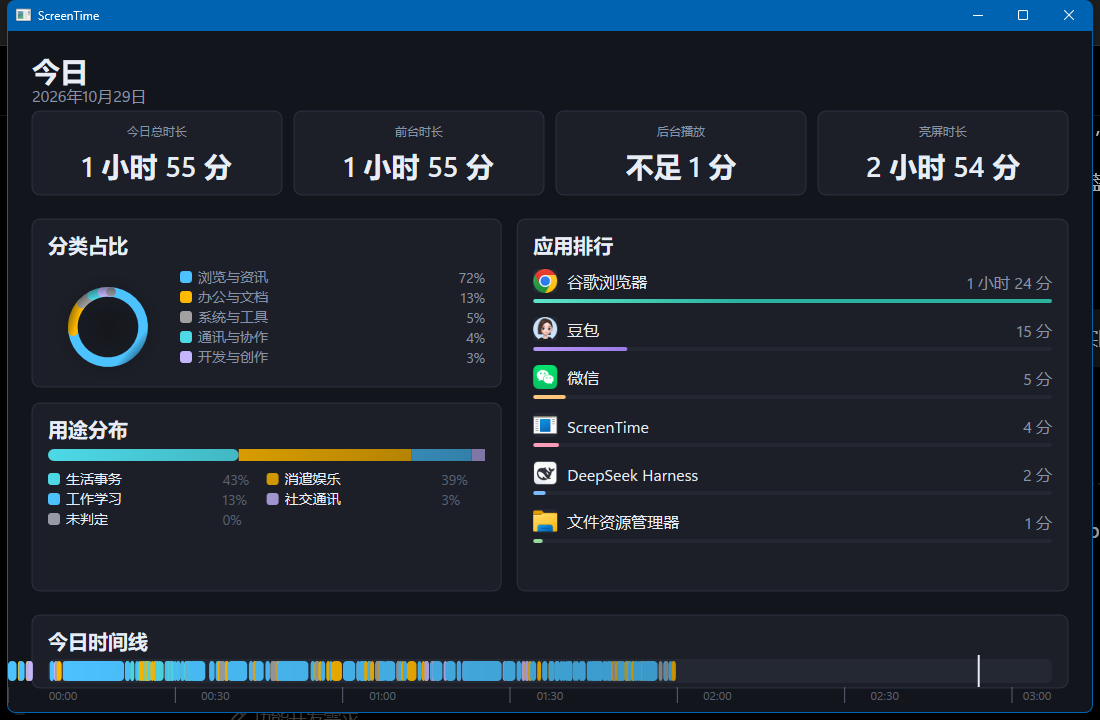
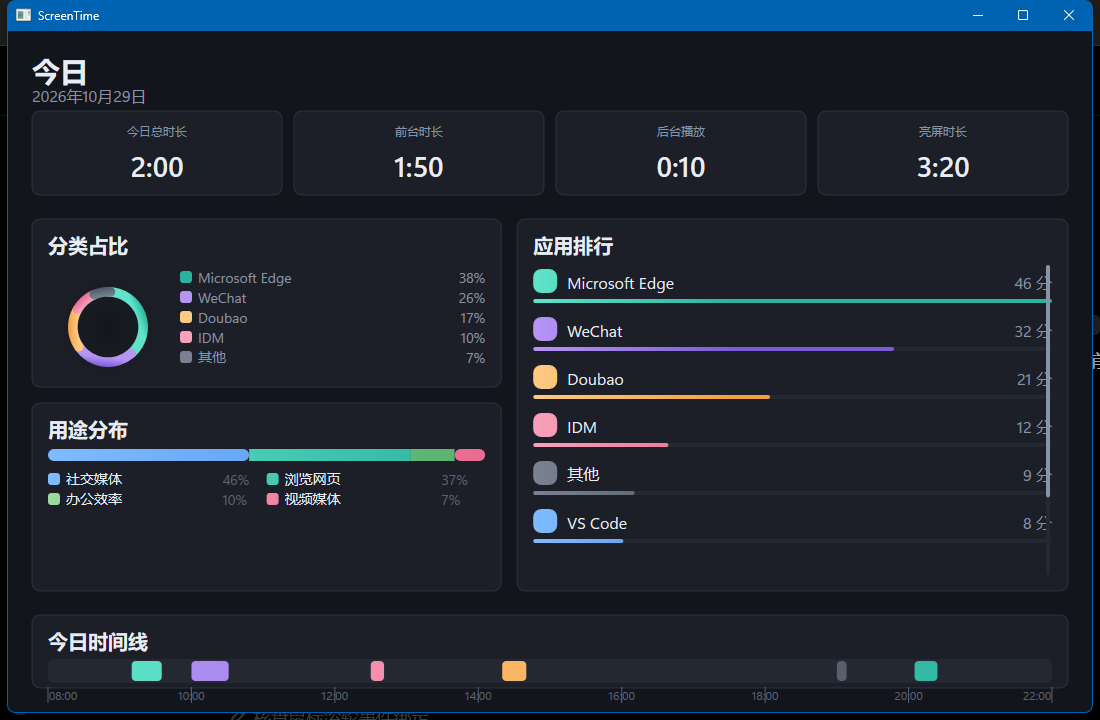
M2: 修复时间线坐标错位 + 应用排行滚轮滚动
- 时间线 X() 映射漏加条带左缘偏移，块/刻度/游标整体左移约 40px；改为返回绝对坐标，刻度标签边界对齐重写
- RankList 支持滚轮滚动（WM_MOUSEWHEEL 仅排行卡内命中），可见窗口 + 右侧滚动条指示（Track 底 + 滑块）
- 数据重载/滚动后渐变刷按可见窗口重建；SetItems 复位滚动位
- demo 排行扩到 8 项用于滚动验证

diff --git a/Native/ScreenTime.Win32/src/RankList.h b/Native/ScreenTime.Win32/src/RankList.h
@@ -23,10 +23,27 @@ public:
     void SetItems(std::vector<RankItem> items)
     {
         m_items = std::move(items);
+        m_scrollPos = 0; // 新数据回到顶部
         m_needDataRebuild = true;
     }
 
     void SetEmpty(bool empty) { m_empty = empty; }
+
+    // 滚轮滚动：delta = 每次滚动的行数（正=向下）
+    void ScrollBy(int delta)
+    {
+        const int n = (int)m_items.size();
+        const int maxScroll = std::max(0, n - m_maxRows);
+        if (maxScroll == 0) return;
+        const int next = std::clamp(m_scrollPos + delta, 0, maxScroll);
+        if (next != m_scrollPos)
+        {
+            m_scrollPos = next;
+            m_needDataRebuild = true;
+        }
+    }
+
+    bool IsScrollable() const { return (int)m_items.size() > m_maxRows; }
 
     // 窗口隐藏时释放全部 D2D 资源
     void ReleaseResources()
@@ -69,28 +86,28 @@ public:
             return;
         }
 
-        // 最大值用于进度条比例
+        // 最大值用于进度条比例（全量）
         float maxMin = 1.f;
         for (const auto& it : m_items)
             if (it.minutes > maxMin) maxMin = it.minutes;
 
-        const int rows = std::min((int)m_items.size(), m_maxRows);
-        for (int i = 0; i < rows; ++i)
+        const int rows = std::min((int)m_items.size() - m_scrollPos, m_maxRows);
+        for (int r = 0; r < rows; ++r)
         {
-            const auto& item = m_items[i];
-            const FLOAT y = m_listTop + i * 48.f;
+            const auto& item = m_items[m_scrollPos + r];
+            const FLOAT y = m_listTop + r * 48.f;
 
             // 行底进度条背景（全宽 4px）
             D2D1_RECT_F track = { m_bounds.left, y + 34.f, m_bounds.right, y + 38.f };
             rt->FillRoundedRectangle(D2D1::RoundedRect(track, 2.f, 2.f), m_trackBrush);
 
             // 进度条前景（渐变，按比例）
-            if (m_barGradients[i])
+            if (m_barGradients[r])
             {
                 const FLOAT ratio = item.minutes / maxMin;
                 D2D1_RECT_F bar = { m_bounds.left, y + 34.f,
                                     m_bounds.left + (m_bounds.right - m_bounds.left) * ratio, y + 38.f };
-                rt->FillRoundedRectangle(D2D1::RoundedRect(bar, 2.f, 2.f), m_barGradients[i]);
+                rt->FillRoundedRectangle(D2D1::RoundedRect(bar, 2.f, 2.f), m_barGradients[r]);
             }
 
             // 应用图标（24x24，复刻原版）或渐变圆点兜底
@@ -105,7 +122,7 @@ public:
             }
             else
             {
-                rt->FillRoundedRectangle(D2D1::RoundedRect(iconRc, 8.f, 8.f), m_barGradients[i]);
+                rt->FillRoundedRectangle(D2D1::RoundedRect(iconRc, 8.f, 8.f), m_barGradients[r]);
             }
 
             // 应用名
@@ -123,6 +140,23 @@ public:
             rt->DrawText(buf, (UINT32)wcslen(buf), m_timeFmt, rcTime, m_timeBrush,
                          D2D1_DRAW_TEXT_OPTIONS_NONE, DWRITE_MEASURING_MODE_NATURAL);
         }
+
+        // 滚动条指示（仅当条目数超过可见行）
+        if (IsScrollable())
+        {
+            const FLOAT sbLeft = m_bounds.right - 6.f;
+            const FLOAT sbTop = m_listTop, sbBot = m_bounds.bottom - 4.f;
+            D2D1_RECT_F sbTrack = { sbLeft, sbTop, sbLeft + 4.f, sbBot };
+            rt->FillRoundedRectangle(D2D1::RoundedRect(sbTrack, 2.f, 2.f), m_trackBrush);
+
+            const int n = (int)m_items.size();
+            const int maxScroll = n - m_maxRows;
+            const FLOAT trackH = sbBot - sbTop;
+            const FLOAT thumbH = std::max(trackH * m_maxRows / n, 16.f);
+            const FLOAT thumbY = sbTop + (trackH - thumbH) * m_scrollPos / maxScroll;
+            D2D1_RECT_F thumb = { sbLeft, thumbY, sbLeft + 4.f, thumbY + thumbH };
+            rt->FillRoundedRectangle(D2D1::RoundedRect(thumb, 2.f, 2.f), m_timeBrush);
+        }
     }
 
 private:
@@ -139,15 +173,15 @@ private:
         m_deviceReady = true;
     }
 
-    // 数据资源：每行一个渐变刷（进度条 + 色点共用）
+    // 数据资源：每行一个渐变刷（进度条 + 色点共用），按当前可见窗口重建
     void RebuildData(D2DContext& ctx)
     {
         ID2D1RenderTarget* rt = ctx.RT();
-        const int n = std::min((int)m_items.size(), m_maxRows);
+        const int n = std::min((int)m_items.size() - m_scrollPos, m_maxRows);
         m_barGradients.assign(n, nullptr);
         for (int i = 0; i < n; ++i)
         {
-            const auto& item = m_items[i];
+            const auto& item = m_items[m_scrollPos + i];
             const D2D1_POINT_2F g0 = { m_bounds.left, m_listTop + i * 48.f + 36.f };
             const D2D1_POINT_2F g1 = { m_bounds.left + 200.f, m_listTop + i * 48.f + 36.f };
             m_barGradients[i] = ctx.MakeLinearGradient(item.gradient.a, item.gradient.b, g0, g1);
@@ -167,6 +201,7 @@ private:
     bool m_empty = false;
     bool m_needDataRebuild = true;
     bool m_deviceReady = false;
+    int m_scrollPos = 0; // 滚动偏移（可见窗口首行索引）
 
     D2D1_RECT_F m_bounds{};
     D2D1_RECT_F m_titleRect{};

diff --git a/Native/ScreenTime.Win32/src/MainFrame.h b/Native/ScreenTime.Win32/src/MainFrame.h
@@ -33,6 +33,7 @@ public:
         MESSAGE_HANDLER(WM_CLOSE, OnClose)
         MESSAGE_HANDLER(WM_DESTROY, OnDestroy)
         MESSAGE_HANDLER(WM_PAINT, OnPaint)
+        MESSAGE_HANDLER(WM_MOUSEWHEEL, OnMouseWheel)
         MESSAGE_HANDLER(TrayIcon::WM_TRAY, OnTray)
         MESSAGE_HANDLER(TrayIcon::kCmdOpen, OnOpen)
         MESSAGE_HANDLER(TrayIcon::kCmdExit, OnExit)
@@ -58,6 +59,23 @@ public:
     {
         bHandled = TRUE;
         ::PostMessageW(m_hWnd, WM_CLOSE, 0, 0);
+        return 0;
+    }
+
+    LRESULT OnMouseWheel(UINT, WPARAM wParam, LPARAM, BOOL& bHandled)
+    {
+        bHandled = TRUE;
+        // 光标在应用排行卡内才滚动（其余区域不响应滚轮）
+        POINT pt;
+        ::GetCursorPos(&pt);
+        ::ScreenToClient(m_hWnd, &pt);
+        if (pt.x >= m_rankCard.left && pt.x < m_rankCard.right &&
+            pt.y >= m_rankCard.top && pt.y < m_rankCard.bottom)
+        {
+            const int delta = GET_WHEEL_DELTA_WPARAM(wParam) > 0 ? -1 : 1;
+            m_rank.ScrollBy(delta);
+            ::InvalidateRect(m_hWnd, nullptr, TRUE);
+        }
         return 0;
     }
 
@@ -169,6 +187,7 @@ public:
 
             // 右列：应用排行
             D2D1_RECT_F rankCard = { rightColL, midTop, R, midBot };
+            m_rankCard = rankCard; // 供滚轮命中判断
             DrawCard(rankCard);
             D2D1_RECT_F rankInner = { rankCard.left + 16.f, rankCard.top + 14.f,
                                       rankCard.right - 16.f, rankCard.bottom - 12.f };
@@ -215,6 +234,9 @@ private:
 
     // 排行应用图标（ID2D1Bitmap 是设备资源，随窗口隐藏释放；随 MainFrame 生命周期保活）
     std::vector<CComPtr<ID2D1Bitmap>> m_rankIcons;
+
+    // 应用排行卡区域（滚轮命中判断，OnPaint 时更新）
+    D2D1_RECT_F m_rankCard{};
 
     // ---- 渲染生命周期（懒初始化 / 隐藏释放）----
 
@@ -404,6 +426,9 @@ private:
         ranks.push_back({ L"Doubao", 21.f, Palette::Amber() });
         ranks.push_back({ L"IDM", 12.f, Palette::Pink() });
         ranks.push_back({ L"其他", 9.f, Palette::Slate() });
+        ranks.push_back({ L"VS Code", 8.f, Palette::Blue() });
+        ranks.push_back({ L"Steam", 6.f, Palette::Sage() });
+        ranks.push_back({ L"PotPlayer", 5.f, Palette::Amber() });
         m_rank.SetItems(std::move(ranks));
         m_rank.SetEmpty(false);
 

diff --git a/Native/ScreenTime.Win32/src/Timeline.h b/Native/ScreenTime.Win32/src/Timeline.h
@@ -88,9 +88,10 @@ public:
         const double span = std::max(rangeEnd - rangeStart, tickMin);
 
         const FLOAT stripW = m_stripRect.right - m_stripRect.left;
+        // X 返回绝对坐标（相对偏移 + 条带左缘），块/刻度/游标直接使用
         auto X = [&](double t) -> FLOAT {
             const double x = (t - rangeStart) / span * stripW;
-            return (FLOAT)std::clamp(x, 0.0, (double)stripW);
+            return m_stripRect.left + (FLOAT)std::clamp(x, 0.0, (double)stripW);
         };
 
         // 条带背景
@@ -123,15 +124,15 @@ public:
         for (double t = rangeStart; t <= rangeEnd + 0.001; t += tickMin)
         {
             const FLOAT x = X(t);
-            const FLOAT left = std::clamp(x - kLabelW / 2.f, 0.f, std::max(stripW - kLabelW, 0.f));
+            const FLOAT left = std::clamp(x - kLabelW / 2.f, m_stripRect.left,
+                                          std::max(m_stripRect.right - kLabelW, m_stripRect.left));
             rt->DrawLine(D2D1::Point2F(x, m_tickRect.top),
                          D2D1::Point2F(x, m_tickRect.bottom), m_tickBrush, 1.f);
 
             wchar_t buf[16];
             const int hour = (int)(t / 60.0), minute = (int)t % 60;
             swprintf_s(buf, L"%02d:%02d", hour, minute);
-            D2D1_RECT_F rcTxt = { m_stripRect.left + left, m_tickRect.top,
-                                  m_stripRect.left + left + kLabelW, m_tickRect.bottom };
+            D2D1_RECT_F rcTxt = { left, m_tickRect.top, left + kLabelW, m_tickRect.bottom };
             rt->DrawText(buf, (UINT32)wcslen(buf), m_tickFmt, rcTxt, m_tickBrush,
                          D2D1_DRAW_TEXT_OPTIONS_NONE, DWRITE_MEASURING_MODE_NATURAL);
         }
